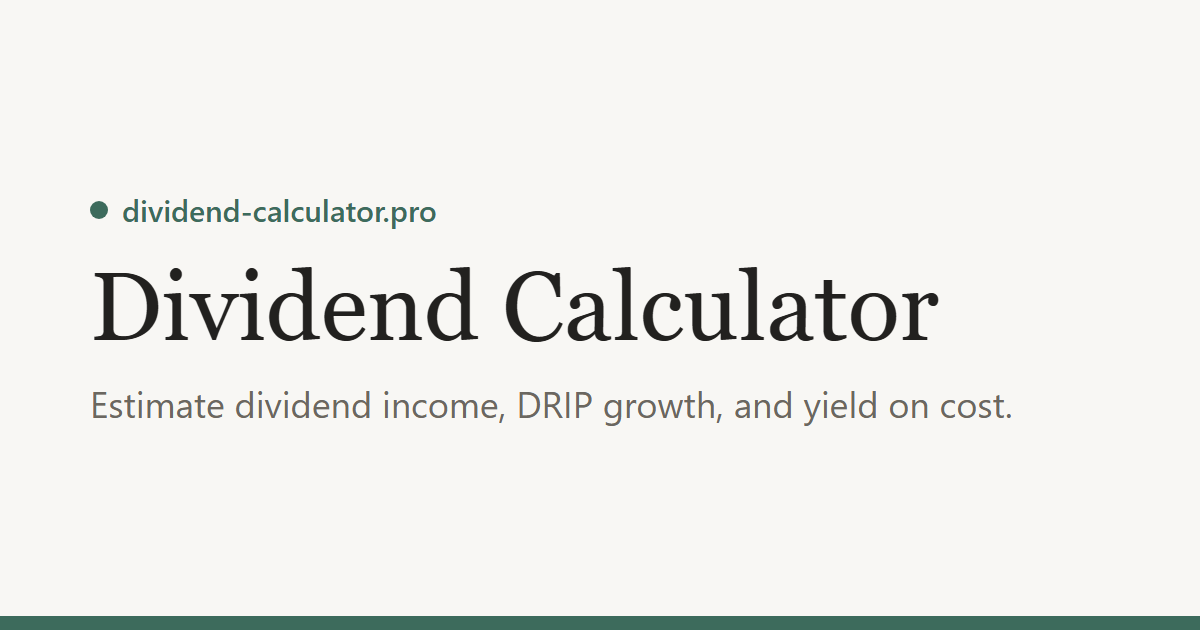
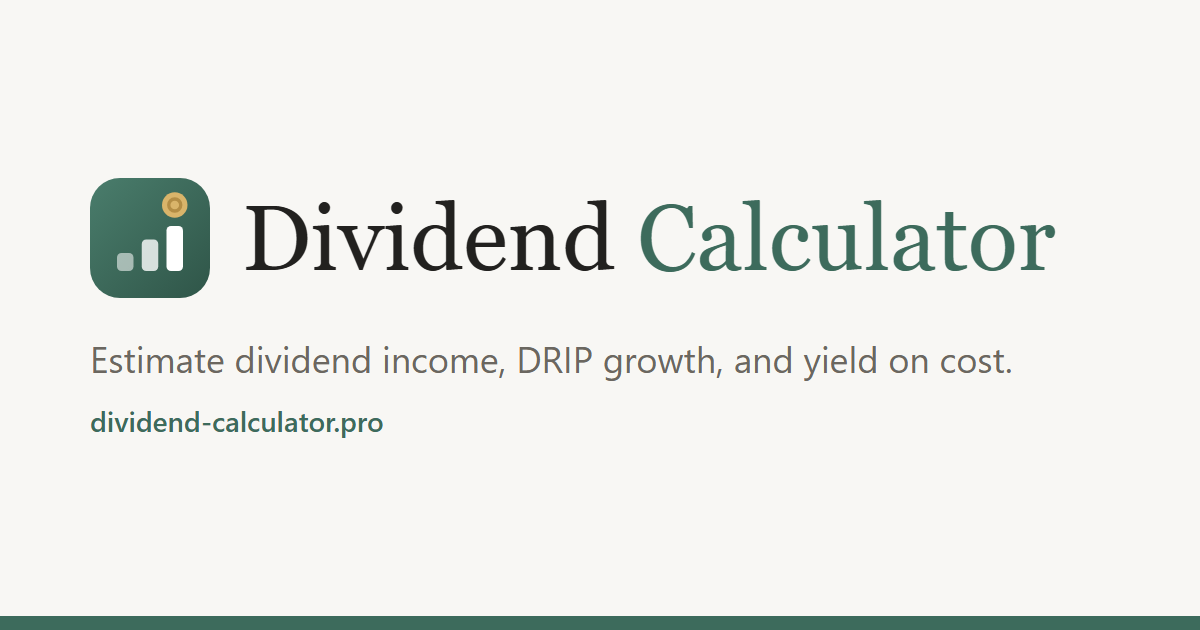
aaaa

Changed region(s): [[0.0617, 0.2714, 0.8942, 0.6937]]

diff --git a/components/Logo.tsx b/components/Logo.tsx
@@ -1,0 +1,38 @@
+import Link from "next/link";
+import { useId } from "react";
+import { siteConfig } from "@/lib/site-config";
+
+/** Brand mark: rising bars with a dividend "coin" landing on the tallest one. */
+export function LogoMark({ className = "h-9 w-9" }: { className?: string }) {
+  // Unique per instance: the logo appears in both header and footer.
+  const gradientId = `logo-tile-${useId().replace(/:/g, "")}`;
+  return (
+    <svg viewBox="0 0 40 40" className={className} aria-hidden="true" focusable="false">
+      <defs>
+        <linearGradient id={gradientId} x1="0" y1="0" x2="1" y2="1">
+          <stop offset="0" stopColor="#4A7D6C" />
+          <stop offset="1" stopColor="#2F5548" />
+        </linearGradient>
+      </defs>
+      <rect width="40" height="40" rx="10" fill={`url(#${gradientId})`} />
+      <rect x="9" y="25" width="5.5" height="6" rx="1.5" fill="#FFFFFF" fillOpacity="0.55" />
+      <rect x="17.25" y="20.5" width="5.5" height="10.5" rx="1.5" fill="#FFFFFF" fillOpacity="0.8" />
+      <rect x="25.5" y="16" width="5.5" height="15" rx="1.5" fill="#FFFFFF" />
+      <circle cx="28.25" cy="9" r="4.25" fill="#D9B46A" />
+      <circle cx="28.25" cy="9" r="2" fill="none" stroke="#B38D45" strokeWidth="1.1" />
+    </svg>
+  );
+}
+
+export default function Logo({ size = "md" }: { size?: "md" | "sm" }) {
+  const mark = size === "md" ? "h-9 w-9" : "h-8 w-8";
+  const text = size === "md" ? "text-xl" : "text-lg";
+  return (
+    <Link href="/" className="group inline-flex items-center gap-2.5" aria-label={`${siteConfig.name} home`}>
+      <LogoMark className={`${mark} shrink-0 transition-transform group-hover:-translate-y-0.5`} />
+      <span className={`font-display ${text} font-medium leading-none tracking-tight text-ink`}>
+        Dividend<span className="text-accent"> Calculator</span>
+      </span>
+    </Link>
+  );
+}

diff --git a/components/layout/Footer.tsx b/components/layout/Footer.tsx
@@ -2,15 +2,14 @@ import Link from "next/link";
 import { siteConfig } from "@/lib/site-config";
 import { guides } from "@/data/guides";
 import CookieSettingsButton from "@/components/cookies/CookieSettingsButton";
+import Logo from "@/components/Logo";
 
 export default function Footer() {
   return (
     <footer className="mt-24 border-t border-line bg-surface">
       <div className="container-page grid gap-10 py-12 sm:grid-cols-2 lg:grid-cols-4">
         <div className="lg:col-span-2">
-          <Link href="/" className="font-display text-lg font-medium text-ink">
-            {siteConfig.name}
-          </Link>
+          <Logo size="sm" />
           <p className="mt-3 max-w-sm text-sm leading-relaxed text-muted">
             A free, browser-based tool for estimating dividend income and reinvestment growth, with plain-English
             guides to the numbers behind it.

diff --git a/components/layout/Header.tsx b/components/layout/Header.tsx
@@ -1,15 +1,13 @@
 import Link from "next/link";
 import { siteConfig } from "@/lib/site-config";
+import Logo from "@/components/Logo";
 import MobileNav from "./MobileNav";
 
 export default function Header() {
   return (
     <header className="relative border-b border-line bg-surface">
       <div className="container-page flex h-16 items-center justify-between">
-        <Link href="/" className="flex items-center gap-2 font-display text-xl font-medium text-ink">
-          <span aria-hidden="true" className="inline-block h-2.5 w-2.5 rounded-full bg-accent" />
-          {siteConfig.name}
-        </Link>
+        <Logo />
 
         <nav aria-label="Main" className="hidden md:block">
           <ul className="flex items-center gap-1">
